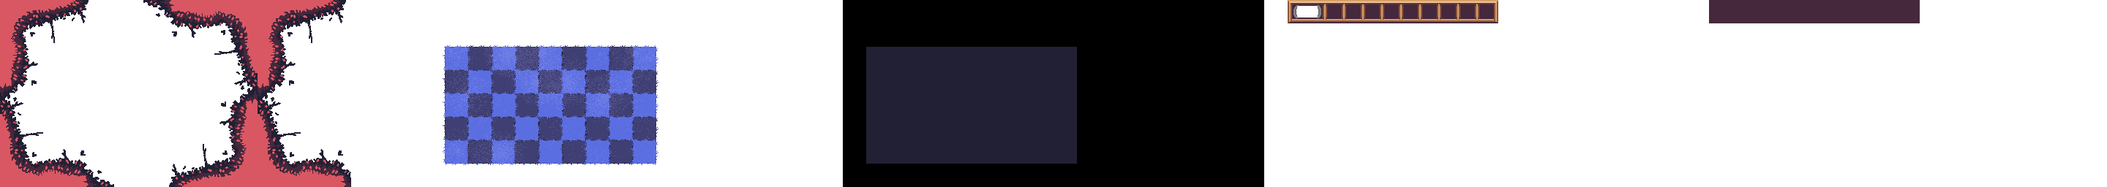
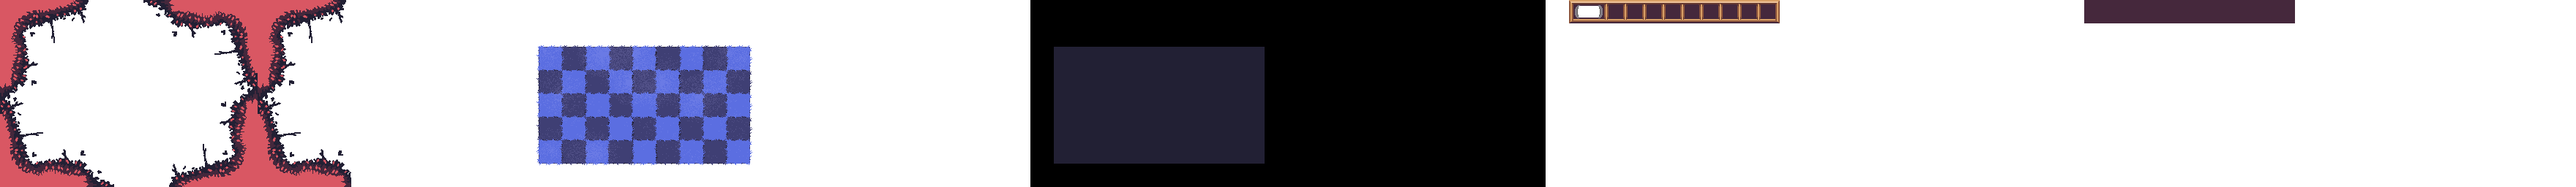
Actualizar el ancho de la textura del jardín a 704px en el CSS; agregar nuevos fondos de bosque

diff --git a/style.css b/style.css
@@ -1,5 +1,5 @@
 :root {
-  --garden-texture-width: 576px;
+  --garden-texture-width: 704px;
   --garden-texture-height: 256px;
 
 }
